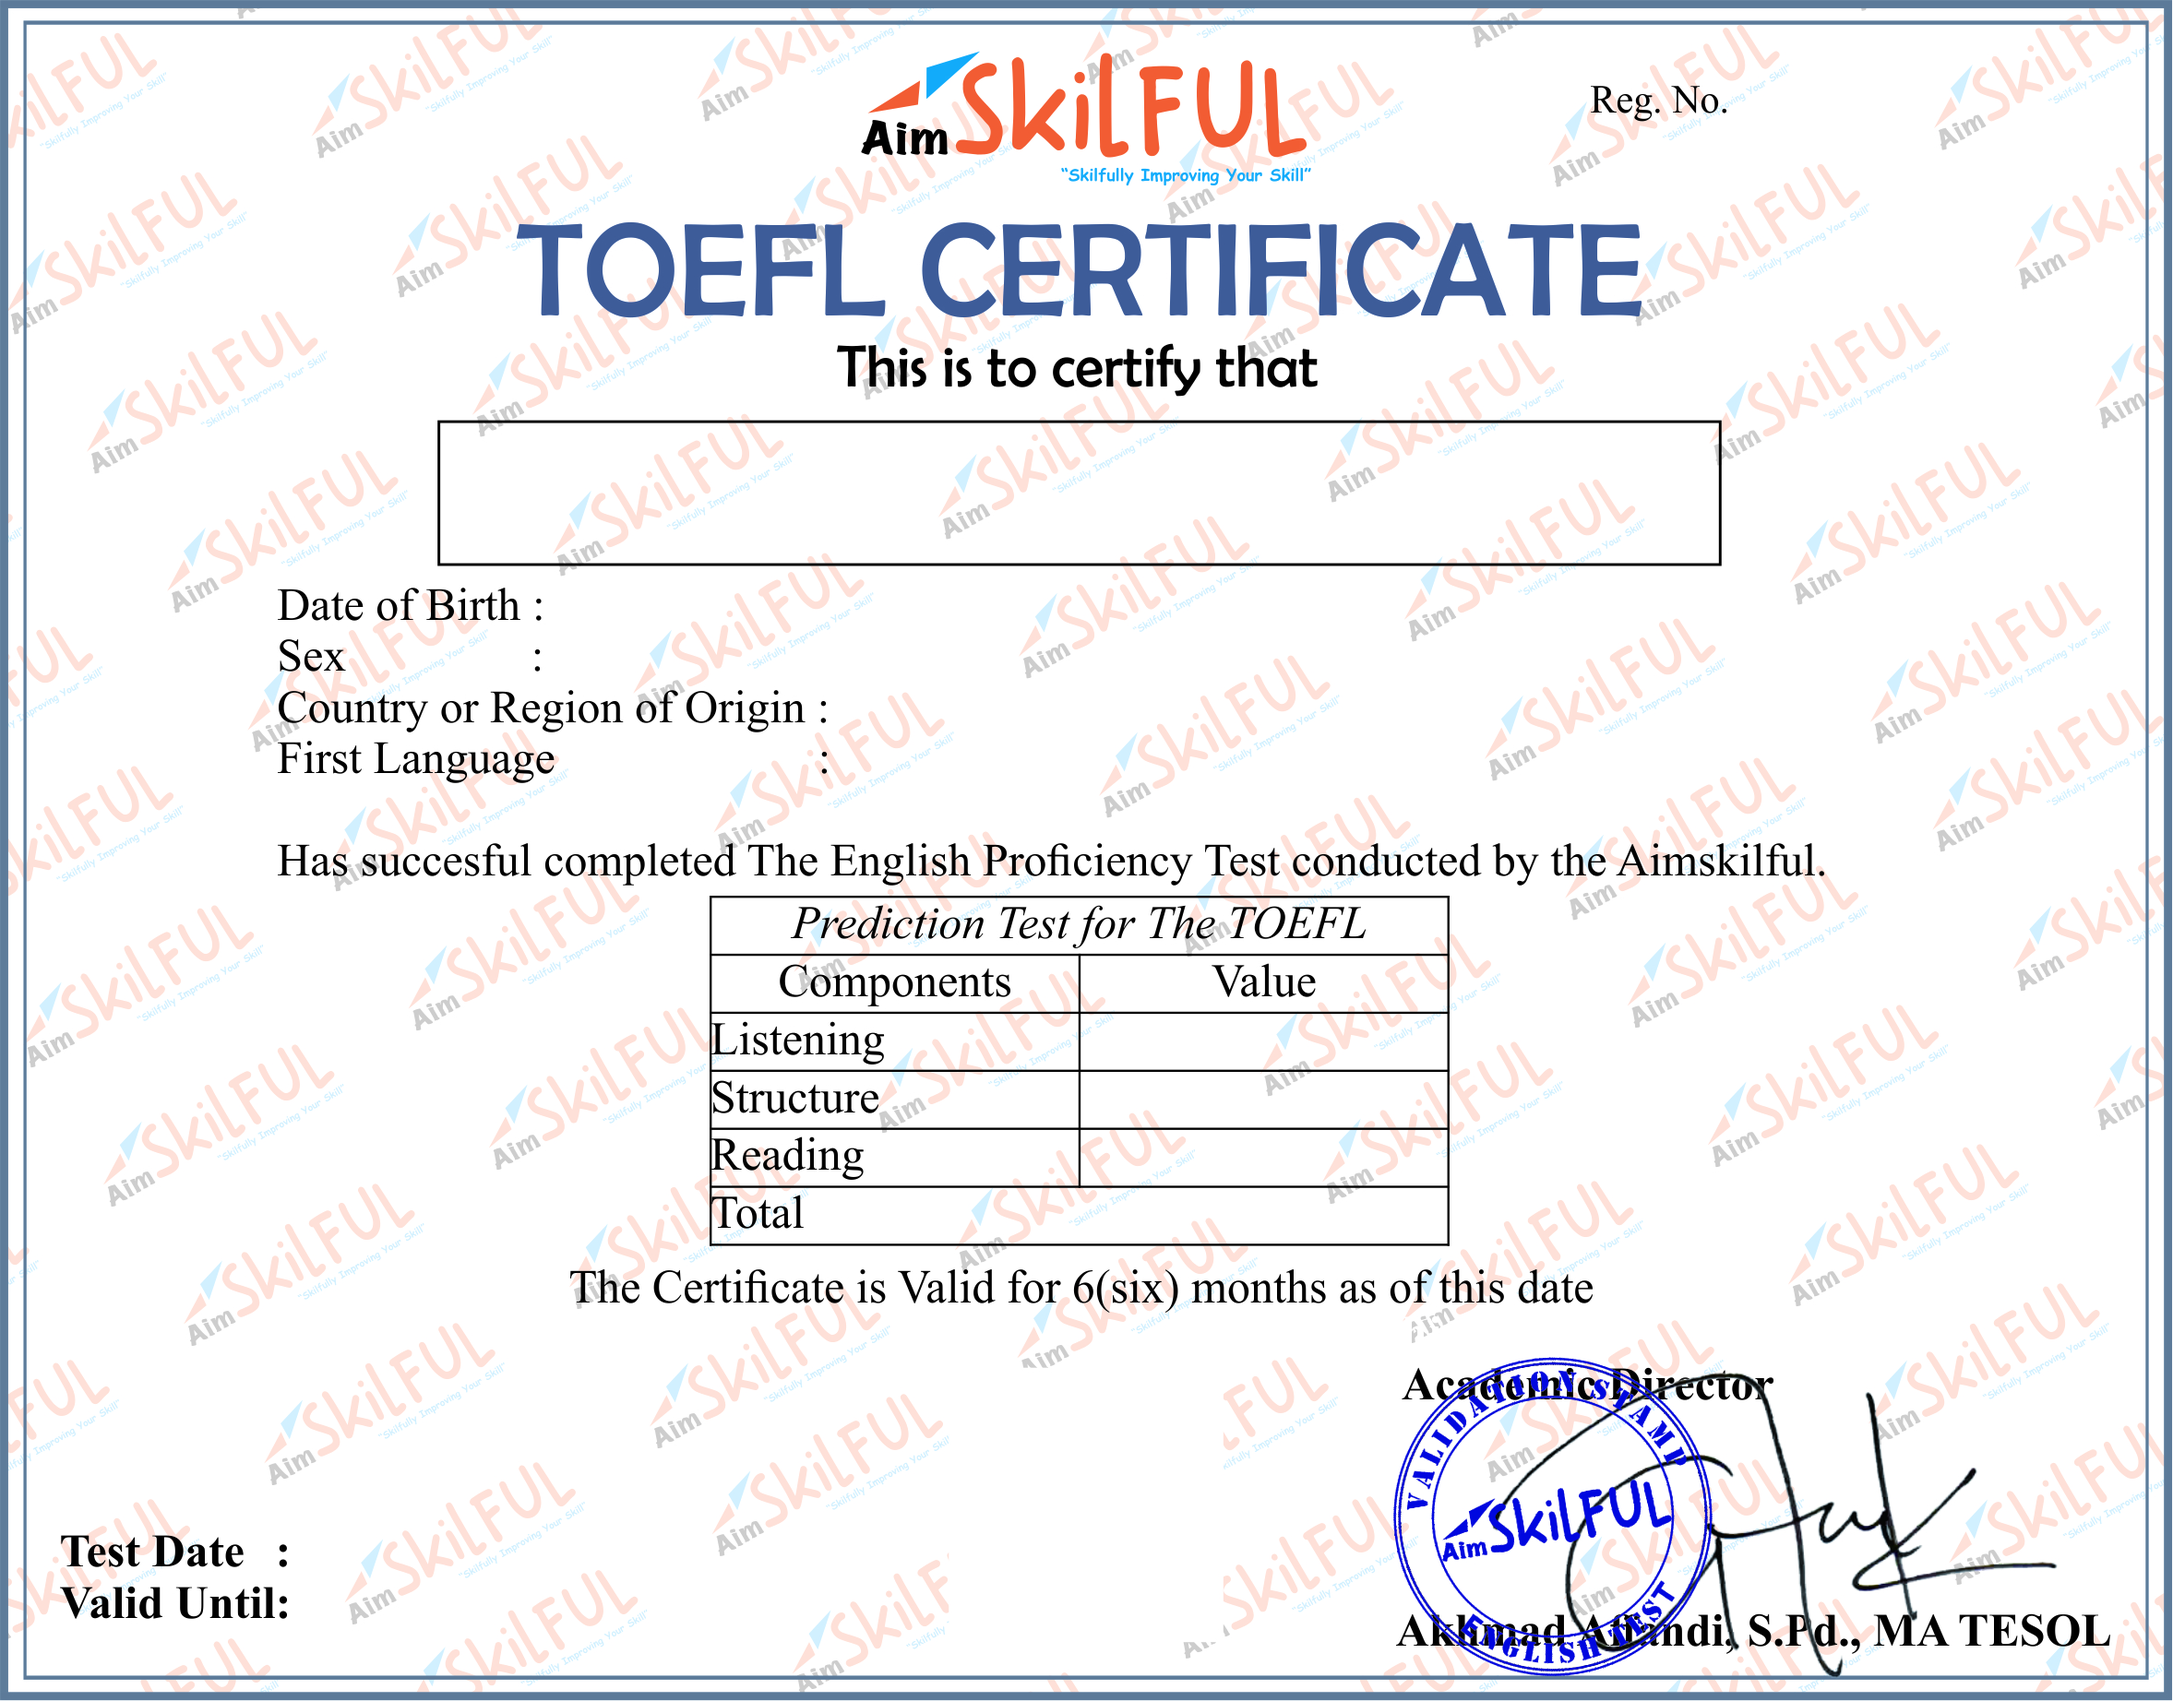
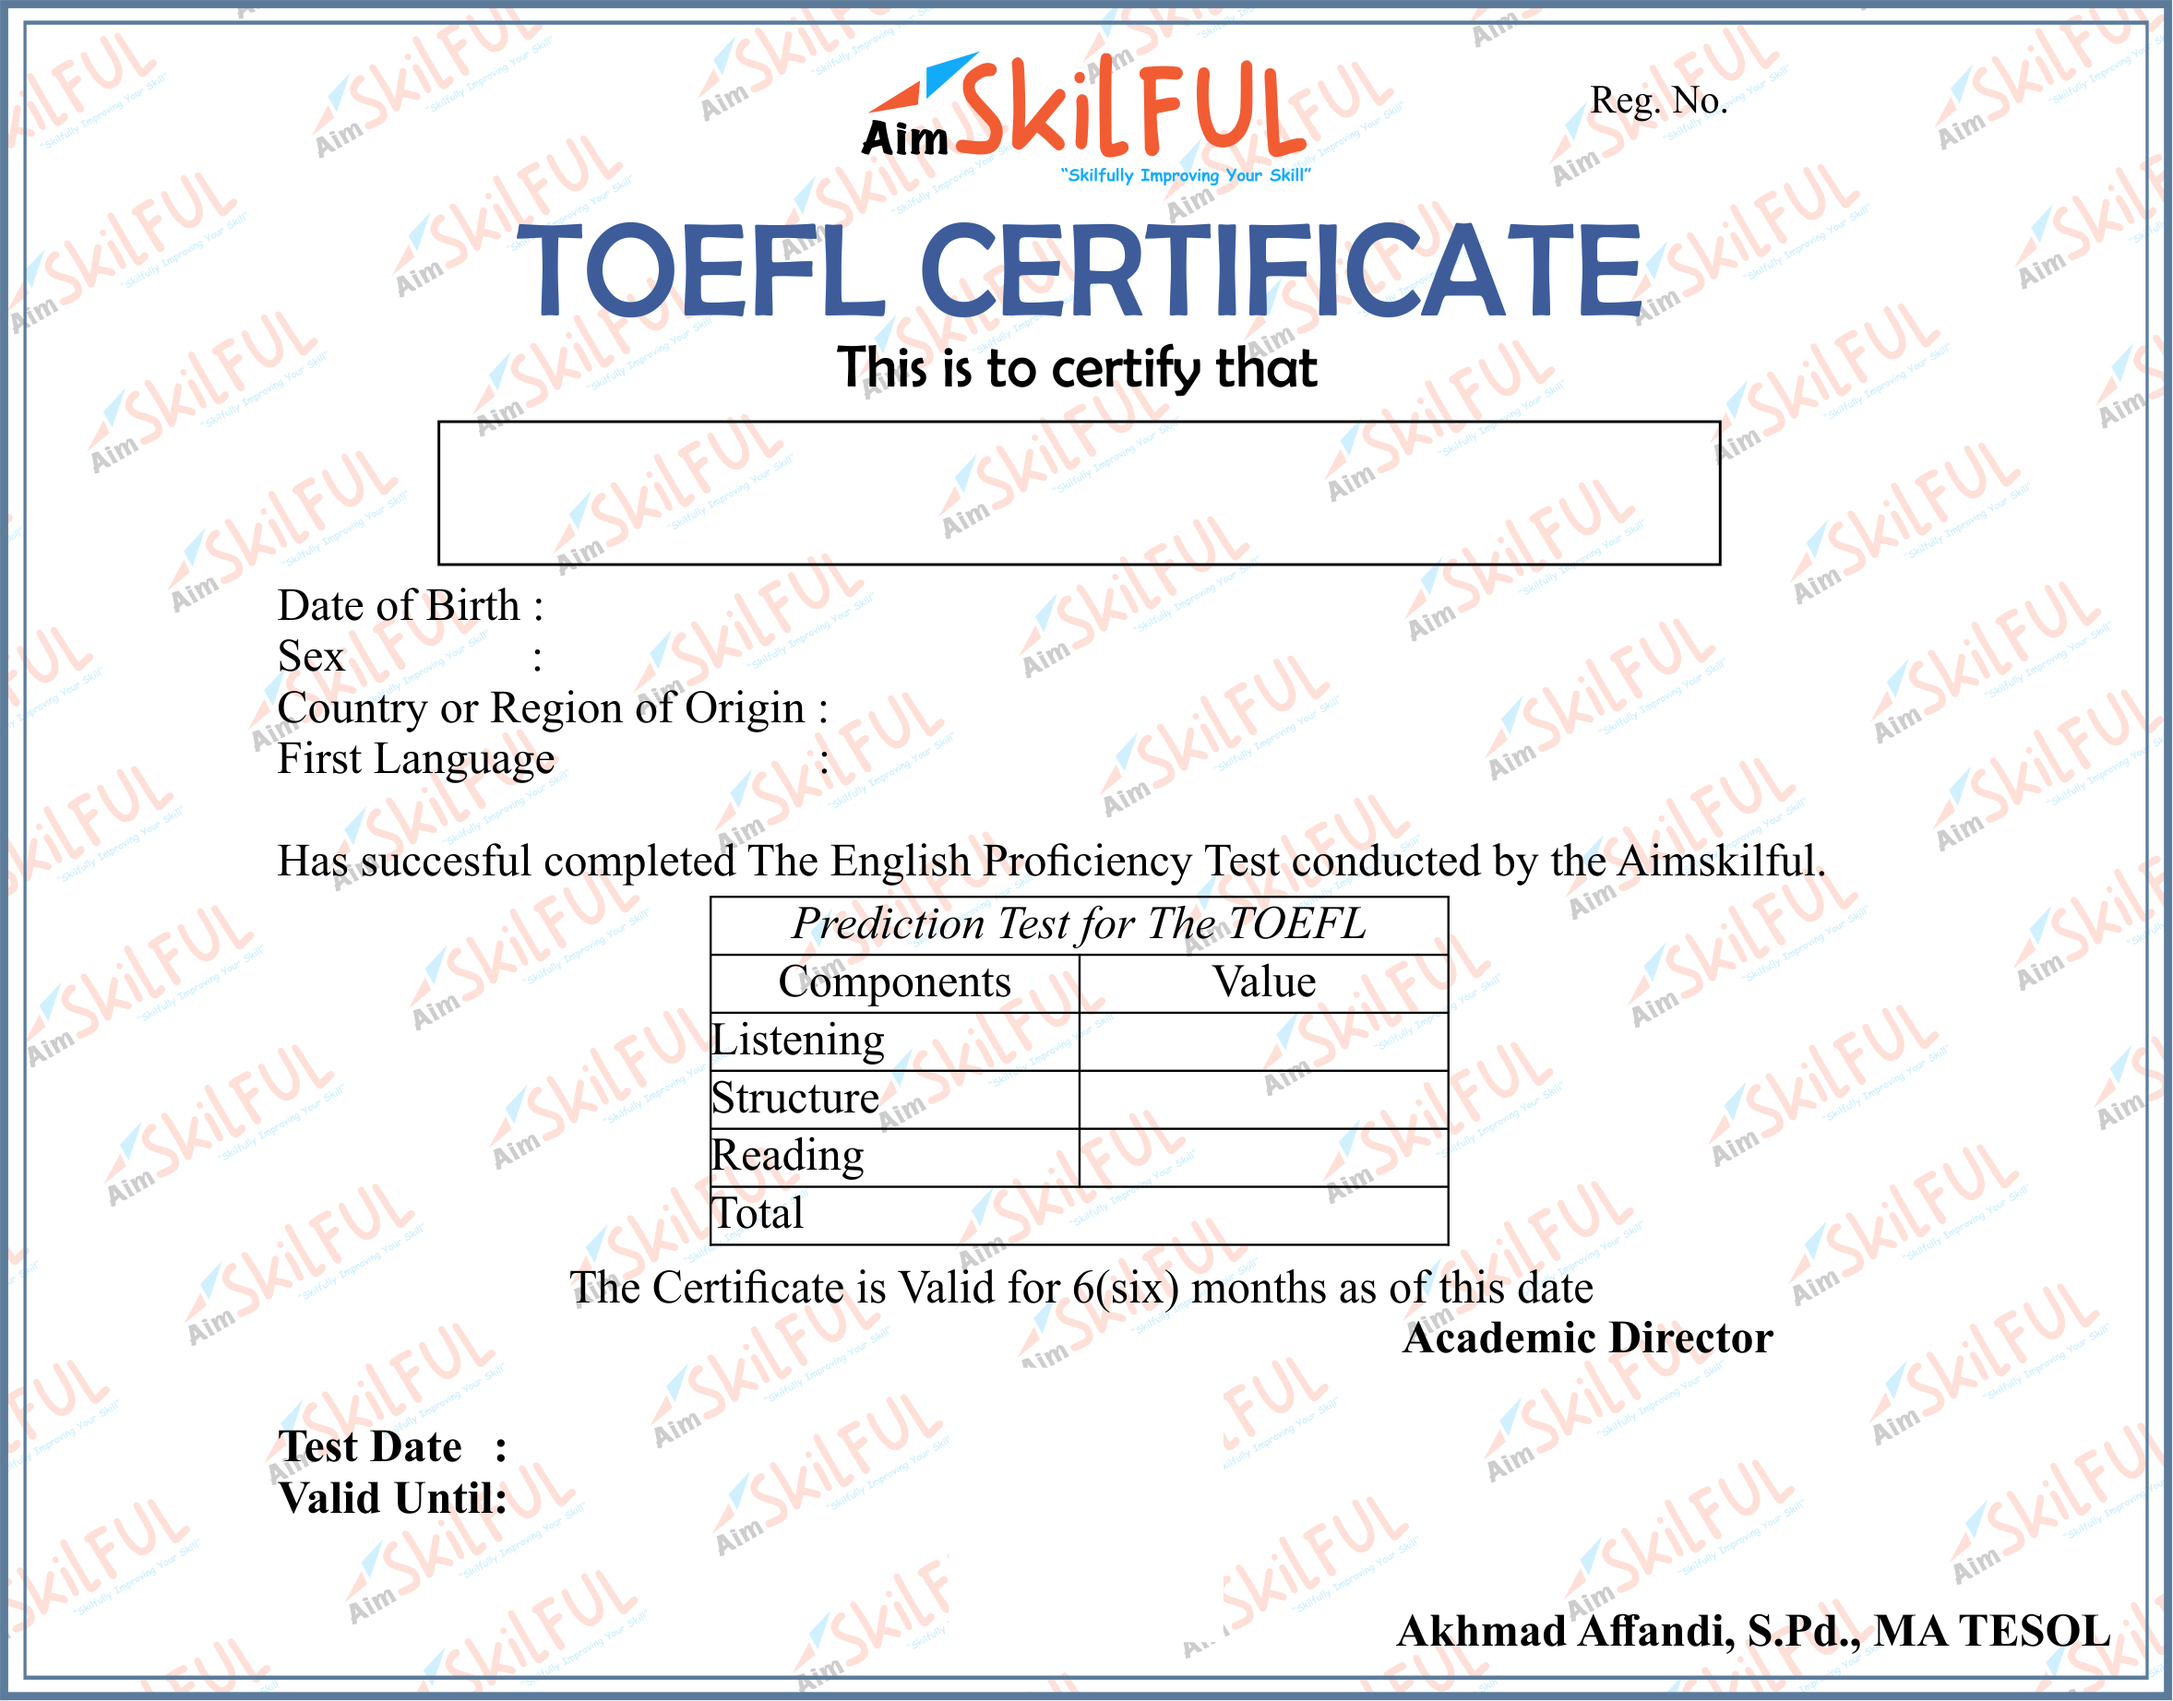
first commit

Changed region(s): [[0.62, 0.7728, 0.9299, 0.9892], [0.124, 0.8346, 0.248, 0.8964], [0.031, 0.8964, 0.124, 0.9582]]

diff --git a/application/controllers/Tes.php b/application/controllers/Tes.php
@@ -271,8 +271,10 @@ class Tes extends MY_Controller {
 
         $skor = round($skor);
         
-        // $peserta['no_doc'] = "{$peserta['no_doc']}/AIMTP/{$peserta['bulan']}/{$peserta['tahun']}";
-        $peserta['no_doc'] = "100000/AIMTP/{$peserta['bulan']}/{$peserta['tahun']}";
+        $peserta['no_doc'] = "{$peserta['no_doc']}/AIMTP/{$peserta['bulan']}/{$peserta['tahun']}";
+
+        $peserta['config'] = $this->tes->config();
+        $peserta['id_tes'] = $peserta['id_tes'];
         
         $defaultFontConfig = (new Mpdf\Config\FontVariables())->getDefaults();
         $fontData = $defaultFontConfig['fontdata'];
@@ -302,9 +304,15 @@ class Tes extends MY_Controller {
             ], 
         ]);
 
-        $mpdf->SetTitle("{$peserta['nama']}");
-        $mpdf->WriteHTML($this->load->view('pages/tes/sertifikat', $peserta, TRUE));
-        $mpdf->Output("{$peserta['nama']}.pdf", "I");
+        if($tes['tipe_tes'] == 'Tes TOEFL Aimskilful'){
+            $mpdf->SetTitle("{$peserta['nama']}");
+            $mpdf->WriteHTML($this->load->view('pages/tes/sertifikat', $peserta, TRUE));
+            $mpdf->Output("{$peserta['nama']}.pdf", "I");
+        } else if($tes['tipe_tes'] == 'Tes TOEFL Kolaborasi Perusahaan' || $tes['tipe_tes'] == 'Tes TOEFL Kolaborasi Universitas'){
+            $mpdf->SetTitle("{$peserta['nama']}");
+            $mpdf->WriteHTML($this->load->view('pages/tes/sertifikat-kolaborasi', $peserta, TRUE));
+            $mpdf->Output("{$peserta['nama']}.pdf", "I");
+        }
 
     }
 

diff --git a/application/views/pages/tes/sertifikat-kolaborasi.php b/application/views/pages/tes/sertifikat-kolaborasi.php
@@ -43,6 +43,13 @@
             padding: 0;
         }
 
+        .logo{
+            /* width: 210px; */
+			position: absolute;
+            right: 350px;
+			top: 10px;
+        }
+
         .qrcode{
             /* width: 210px; */
 			position: absolute;
@@ -193,13 +200,17 @@
         }
 
         @page :first {
-            background-image: url("<?= base_url()?>assets/img/sertifikat-umum.jpg");
+            background-image: url("<?= base_url()?>assets/img/sertifikat-kolaborasi.jpg");
             background-image-resize: 6;
         }
         
     </style>
 </head>
     <body style="text-align: center">
+        <div class="logo">
+            <img src="<?= base_url()?>/assets/logo/<?= $id_tes?>.png" width=45 alt="">
+            <!-- <img src="<?= $config[1]['value']?>/assets/qrcode/<?= $id?>.png" width=60 alt=""> -->
+        </div>
         <div class="qrcode">
             <img src="<?= $config[1]['value']?>/assets/qrcode/<?= $id?>.png" width=70 alt="">
         </div>
